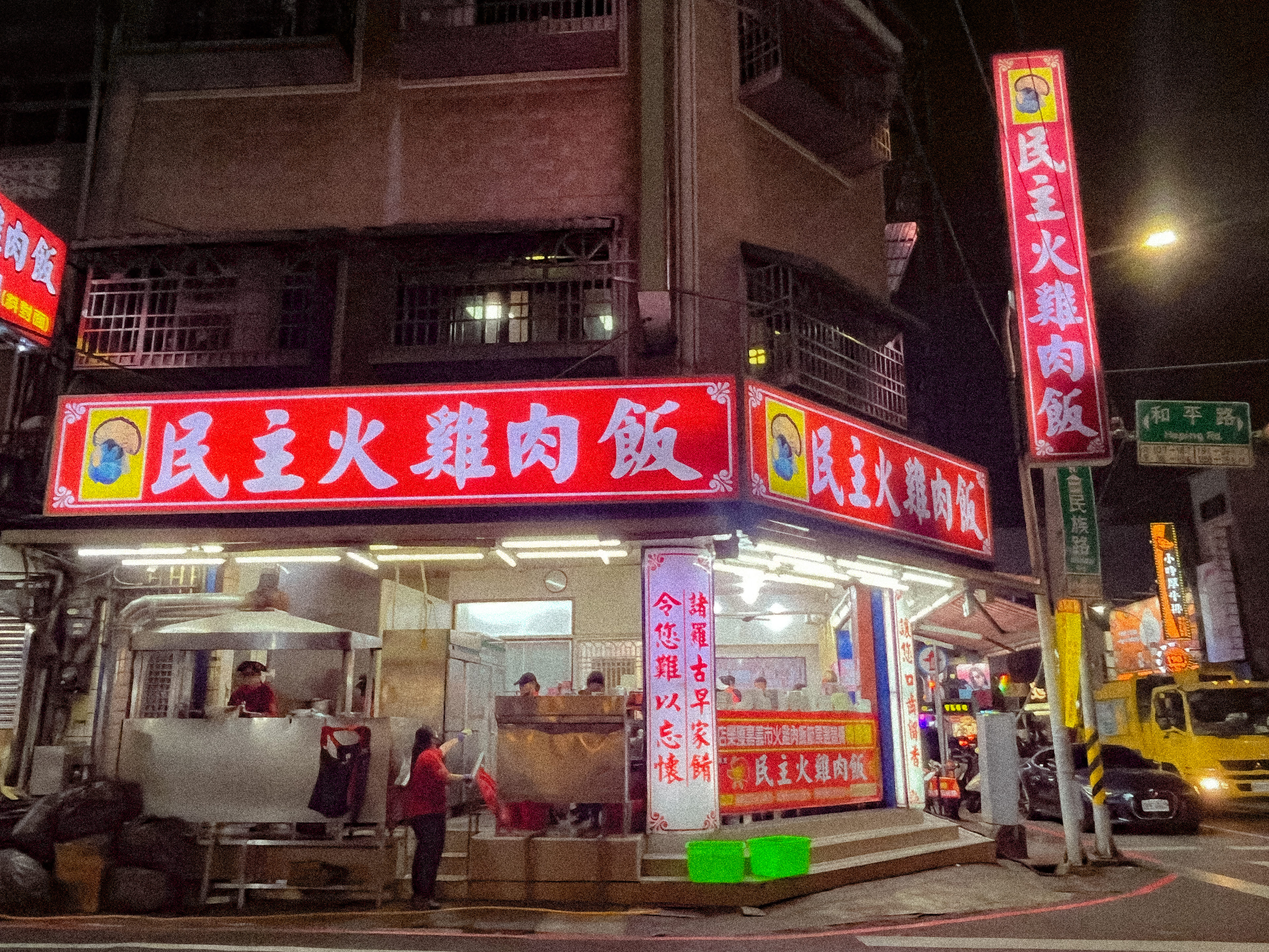
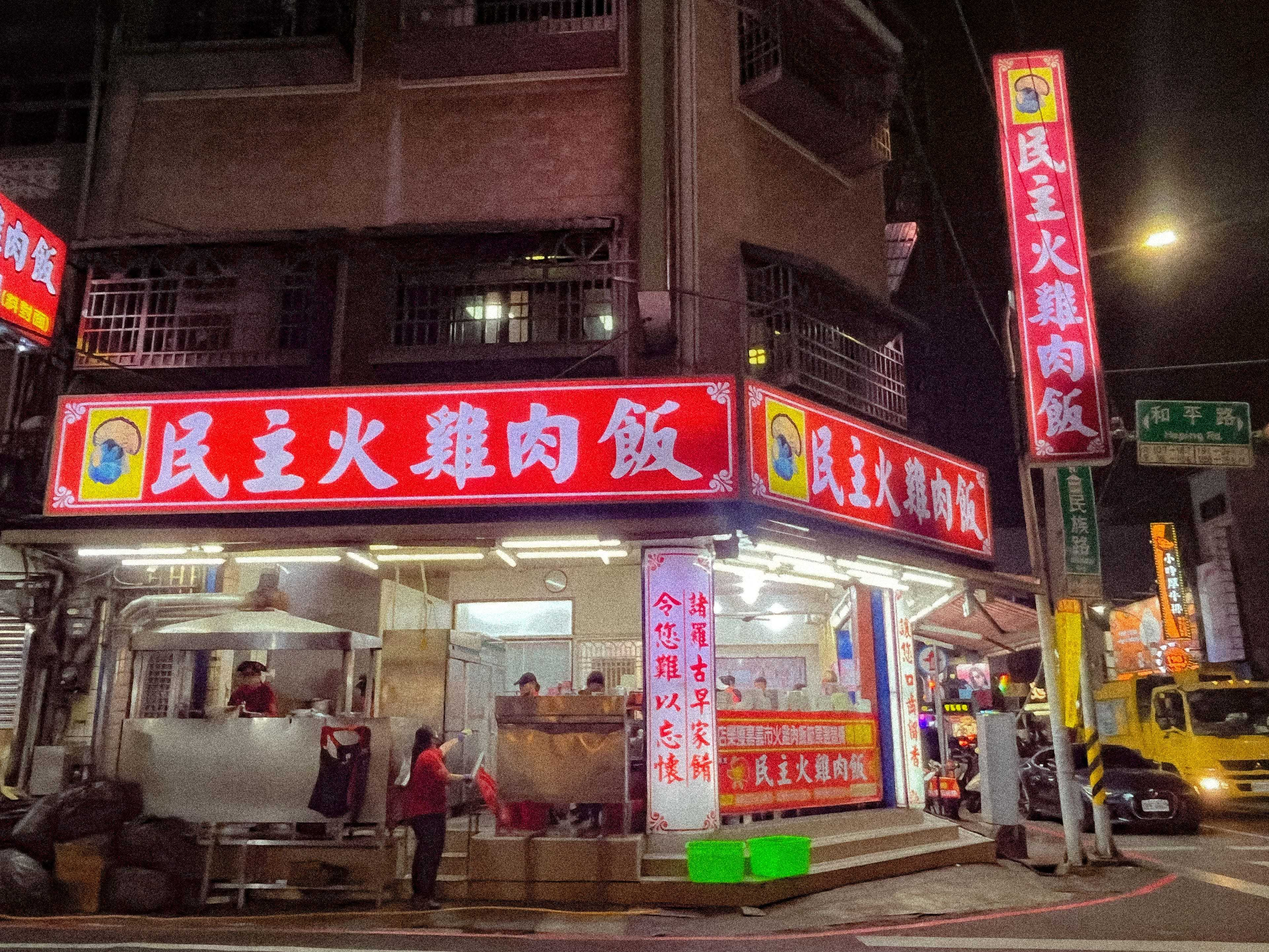
feat: add 20 new restaurants and include price info

diff --git a/lib/restaurant_data.dart b/lib/restaurant_data.dart
@@ -6,6 +6,7 @@ class Restaurant {
   final String time;
   final String description;
   final String phone;
+  final String price;
 
   Restaurant({
     required this.id,
@@ -15,9 +16,9 @@ class Restaurant {
     required this.time,
     required this.description,
     required this.phone,
+    required this.price,
   });
 }
-
 
 final List<Restaurant> restaurants = [
   Restaurant(
@@ -25,18 +26,20 @@ final List<Restaurant> restaurants = [
     name: '民主雞肉飯',
     image: 'assets/01minzu.jpg',
     address: '嘉義市東區民族路149號',
-    time: '每天10:00–20:40',
+    time: '10:00–20:40',
     description: '假日常常大排長龍的店，但翻桌率很高。\n這家店的火雞肉飯口味獨特，深受當地人喜愛。\n有專屬停車場。',
     phone: '05-216-2666',
+    price: '\$ 1-200',
   ),
   Restaurant(
     id: '2',
     name: '噴水雞肉飯-小雅旗艦店',
     image: 'assets/02pensuei.jpg',
     address: '嘉義市東區小雅路382號',
-    time: '每天10:30–20:00',
+    time: '10:30–20:00',
     description: '著名觀光店，但其實非在地人首選。\n有專屬停車場。',
     phone: '05-222-2433',
+    price: '\$\$ 2-400',
   ),
   Restaurant(
     id: '3',
@@ -46,15 +49,17 @@ final List<Restaurant> restaurants = [
     time: '11:00-15:00,17:00-20:00(週二、三、四公休)',
     description: '裝潢小文青，環境舒適，有焗烤雞肉飯很獨特。',
     phone: '05-222-7171',
+    price: '\$ 1-200',
   ),
   Restaurant(
     id: '4',
-    name: '阿宏師火雞肉飯',
+    name: '阿宏師火雞肉飯-宵夜幫吳鳳店',
     image: 'assets/04hong.jpg',
-    address: '嘉義市東區光華路108號',
-    time: '每天10:30–20:00',
-    description: '假日時期常大排長龍，多外地人，且不好停車。',
-    phone: '05-223-3467',
+    address: '嘉義市東區吳鳳北路127號',
+    time: '16:30–23:00',
+    description: '在in89影城附近，宵夜好選擇，排隊比總店少一點。',
+    phone: '05-227-0774',
+    price: '\$ 1-200',
   ),
   Restaurant(
     id: '5',
@@ -64,6 +69,7 @@ final List<Restaurant> restaurants = [
     time: '06:00-14:00(週三公休)',
     description: '創業於西元1987年，是許多嘉義人從小吃到大的老店。',
     phone: '05-216-3755',
+    price: '\$ 1-200',
   ),
   Restaurant(
     id: '6',
@@ -73,6 +79,7 @@ final List<Restaurant> restaurants = [
     time: '05:30–14:00',
     description: '早期是無名路邊攤起家，經營多年的老店。\n用餐時間人潮不斷，外面大馬路好停車。',
     phone: '05-223-1737',
+    price: '\$ 1-200',
   ),
   Restaurant(
     id: '7',
@@ -82,6 +89,7 @@ final List<Restaurant> restaurants = [
     time: '11:00–04:00(週四公休)',
     description: '內用是拋棄式碗筷，評價不高，是某些人的一次店。',
     phone: '05-222-2748',
+    price: '\$ 1-200',
   ),
   Restaurant(
     id: '8',
@@ -91,6 +99,7 @@ final List<Restaurant> restaurants = [
     time: '10:30–21:00',
     description: '評價感覺中規中矩，路邊有付費停車場。',
     phone: '05-277-2233',
+    price: '\$ 1-200',
   ),
   Restaurant(
     id: '9',
@@ -100,6 +109,7 @@ final List<Restaurant> restaurants = [
     time: '16:00–00:00',
     description: '人氣美食須排隊，附近也有超大停車場。',
     phone: '05-228-2738',
+    price: '\$ 1-200',
   ),
   Restaurant(
     id: '10',
@@ -109,5 +119,206 @@ final List<Restaurant> restaurants = [
     time: '10:00–16:00(週二公休)',
     description: '飯粒粒分明，太晚到會蛋就沒有了，且是全熟蛋。',
     phone: '05-275-5005',
+    price: '\$ 1-200',
+  ),
+  Restaurant(
+    id: '11',
+    name: '郭家雞肉飯-中正店',
+    image: 'assets/11guoZong.jpg',
+    address: '嘉義市西區中正路368號',
+    time: '09:30–20:00(週三公休)',
+    description: '是第四代經營，Google評價4顆星，環境明亮，湯料豐富。',
+    phone: '05-227-0580',
+    price: '\$ 1-200',
+  ),
+  Restaurant(
+    id: '12',
+    name: '東門雞肉飯-新民店',
+    image: 'assets/12dongXin.jpg',
+    address: '嘉義市西區新民路846號',
+    time: '10:00–20:30',
+    description: '位於垂楊國小附近，附近有飯店，Google評價4顆星，環境明亮，沾醬是美乃滋，沒有黃蘿蔔片。',
+    phone: '05-286-7536',
+    price: '\$ 1-200',
+  ),
+  Restaurant(
+    id: '13',
+    name: '頂軒火雞肉飯',
+    image: 'assets/13ding.jpg',
+    address: '嘉義市東區公明路265號',
+    time: '10:00-19:30(週日公休)',
+    description: 'google評價3.7顆星，味道似乎較沒有記憶點，但不太需要排隊，不想排隊可以吃看看。',
+    phone: '05-229-2555',
+    price: '\$ 1-200',
+  ),
+  Restaurant(
+    id: '14',
+    name: '郭家美食店',
+    image: 'assets/14guoDaya.jpg',
+    address: '嘉義市東區大雅路二段384號',
+    time: '10:00-18:30',
+    description: 'google評價3.9顆星，從郭家火雞肉飯店分家，店前方可以路邊停車，湯頭似乎不錯。',
+    phone: '05-277-5778',
+    price: '\$ 1-200',
+  ),
+  Restaurant(
+    id: '15',
+    name: '阿宏師火雞肉飯-光華總店',
+    image: 'assets/15hongGuan.jpg',
+    address: '嘉義市東區光華路108號',
+    time: '每天10:30–20:00',
+    description: '假日時期常大排長龍，多外地人，且不好停車。',
+    phone: '05-223-3467',
+    price: '\$ 1-200',
+  ),
+  Restaurant(
+    id: '16',
+    name: '東門雞肉飯-和平店',
+    image: 'assets/16dongHe.jpg',
+    address: '嘉義市東區光彩街198號',
+    time: '05:00-20:30',
+    description: '鄰近東市場，Google評價4顆星，在嘉義比較不突出，整體中規中矩，會開發票。',
+    phone: '05-228-2678',
+    price: '\$ 1-200',
+  ),
+  Restaurant(
+    id: '17',
+    name: '興安火雞肉飯',
+    image: 'assets/17xing.jpg',
+    address: '嘉義市東區興美六路一號',
+    time: '10:30-19:30',
+    description: '位於興安國小對面，google評價4.2顆星，停車方便',
+    phone: '05-216-5988',
+    price: '\$ 1-200',
+  ),
+  Restaurant(
+    id: '18',
+    name: '和平火雞肉飯',
+    image: 'assets/18heping.jpg',
+    address: '嘉義市東區和平路107號',
+    time: '07:30-17:00',
+    description: 'google評價4.2顆星，內用環境擁擠，可能有點熱，需要排隊，要油蔥酥要主動說，雞油很香。',
+    phone: '05-224-0956',
+    price: '\$ 1-200',
+  ),
+  Restaurant(
+    id: '19',
+    name: '曾家火雞肉飯',
+    image: 'assets/19zeng.jpg',
+    address: '嘉義縣中埔鄉中山路五段944號',
+    time: '05:30-13:15(週四公休)',
+    description: 'google評價4.1顆星，飯是濕潤的，環境比較老舊。',
+    phone: '05-230-2120',
+    price: '\$ 1-200',
+  ),
+  Restaurant(
+    id: '20',
+    name: '陽光雞肉飯',
+    image: 'assets/20sun.jpg',
+    address: '嘉義市東區學府路300號',
+    time: '11:00-19:00',
+    description: '位於嘉義大學蘭潭校區美食街，因位於學校，怎麼停都有位置。',
+    phone: '0988-689-817',
+    price: '\$ 100↓',
+  ),
+  Restaurant(
+    id: '21',
+    name: '三雅火雞肉飯',
+    image: 'assets/21yai.jpg',
+    address: '嘉義市西區仁愛路576-1號',
+    time: '09:00-20:30(週四公休)',
+    description: '位於嘉義火車站對面，是50老店。有二樓，出餐快，不會太油。',
+    phone: '05-224-2586',
+    price: '\$ 1-200',
+  ),
+  Restaurant(
+    id: '22',
+    name: '噴水雞肉飯-中山店',
+    image: 'assets/22penYuan.jpg',
+    address: '嘉義市西區中山路325號',
+    time: '10:00-21:00',
+    description: '是噴水雞肉飯總店，比較小間擁擠，位於圓環附近，較不好停車。一顆星評價比五顆星多。',
+    phone: '05-222-2433',
+    price: '\$ 1-200',
+  ),
+  Restaurant(
+    id: '23',
+    name: '阿宏師火雞肉飯-中埔鄉中山店',
+    image: 'assets/23hongZong.jpg',
+    address: '嘉義縣中埔鄉中山路五段943-5號',
+    time: '10:30-20:00',
+    description: 'google評價3.9顆星，蔡阿嘎似乎推薦過，店內空間不大，火雞肉飯算香。',
+    phone: '05-239-6656',
+    price: '\$ 1-200',
+  ),
+  Restaurant(
+    id: '24',
+    name: '郭家雞肉飯-文化店',
+    image: 'assets/24guoWen.jpg',
+    address: '嘉義市東區文化路148號',
+    time: '10:00-04:00',
+    description: 'google評價3.4顆星，位於文化路夜市，營業時間很長，生意也很好，翻桌率高。',
+    phone: '05-225-6214',
+    price: '\$ 1-200',
+  ),
+  Restaurant(
+    id: '25',
+    name: '正統火雞肉飯',
+    image: 'assets/25zeng.jpg',
+    address: '嘉義市東區大雅路二段591號',
+    time: '08:00-13:50,16:30-19:30(週一公休)',
+    description: 'google評價4.6顆星，內用外帶都好吃，CP值高。',
+    phone: '05-276-2679',
+    price: '\$ 1-200',
+  ),
+  Restaurant(
+    id: '26',
+    name: '車頭火雞肉飯',
+    image: 'assets/26che.jpg',
+    address: '嘉義市西區中正路707號',
+    time: '10:00-20:30(週三公休)',
+    description: 'google評價4.3顆星，有二樓還可以看街景，雞肉份量給的蠻多的。',
+    phone: '05-225-7793',
+    price: '\$ 1-200',
+  ),
+  Restaurant(
+    id: '27',
+    name: '阿霞-二代店',
+    image: 'assets/27xia2.jpg',
+    address: '嘉義市西區中正路479號',
+    time: '平日16:00-22:00,假日11:30-21:30',
+    description: 'google評價4.1顆星，附近有停車場，裝潢文青明亮，感受得到是用心經營的店。',
+    phone: '05-225-0323',
+    price: '\$ 1-200',
+  ),
+  Restaurant(
+    id: '28',
+    name: '噴水雞肉飯-新民店',
+    image: 'assets/28penXin.jpg',
+    address: '嘉義市西區新民路880號',
+    time: '09:30-20:00',
+    description: 'google評價3.3顆星，許多評論認為價格偏貴，環境衛生也有些許問題。',
+    phone: '05-285-9000',
+    price: '\$ 1-200',
+  ),
+  Restaurant(
+    id: '29',
+    name: '阿德師火雞肉飯',
+    image: 'assets/29ade.jpg',
+    address: '嘉義市西區建成街42號',
+    time: '10:30–20:00(週一公休)',
+    description: 'google評價4.5顆星，環境老舊，老闆親切有人情味，用料實在。',
+    phone: '05-286-2377',
+    price: '\$ 1-200',
+  ),
+  Restaurant(
+    id: '30',
+    name: '阿信美食',
+    image: 'assets/30xin.jpg',
+    address: '嘉義市西區中正路426號',
+    time: '22:00-03:30',
+    description: 'google評價4顆星，雖開在深夜，但生意依舊蠻好的，算是嘉義有名宵夜，CP值高。',
+    phone: '05-229-3925',
+    price: '\$ 1-200',
   )
 ];

diff --git a/lib/main.dart b/lib/main.dart
@@ -67,7 +67,7 @@ class HomePage extends StatelessWidget {
     var background = Container(
       decoration: const BoxDecoration(
         image: DecorationImage(
-          image: AssetImage('./assets/home_background.JPG'),
+          image: AssetImage('assets/home_background.jpg'),
           fit: BoxFit.cover,
         ),
       ),
